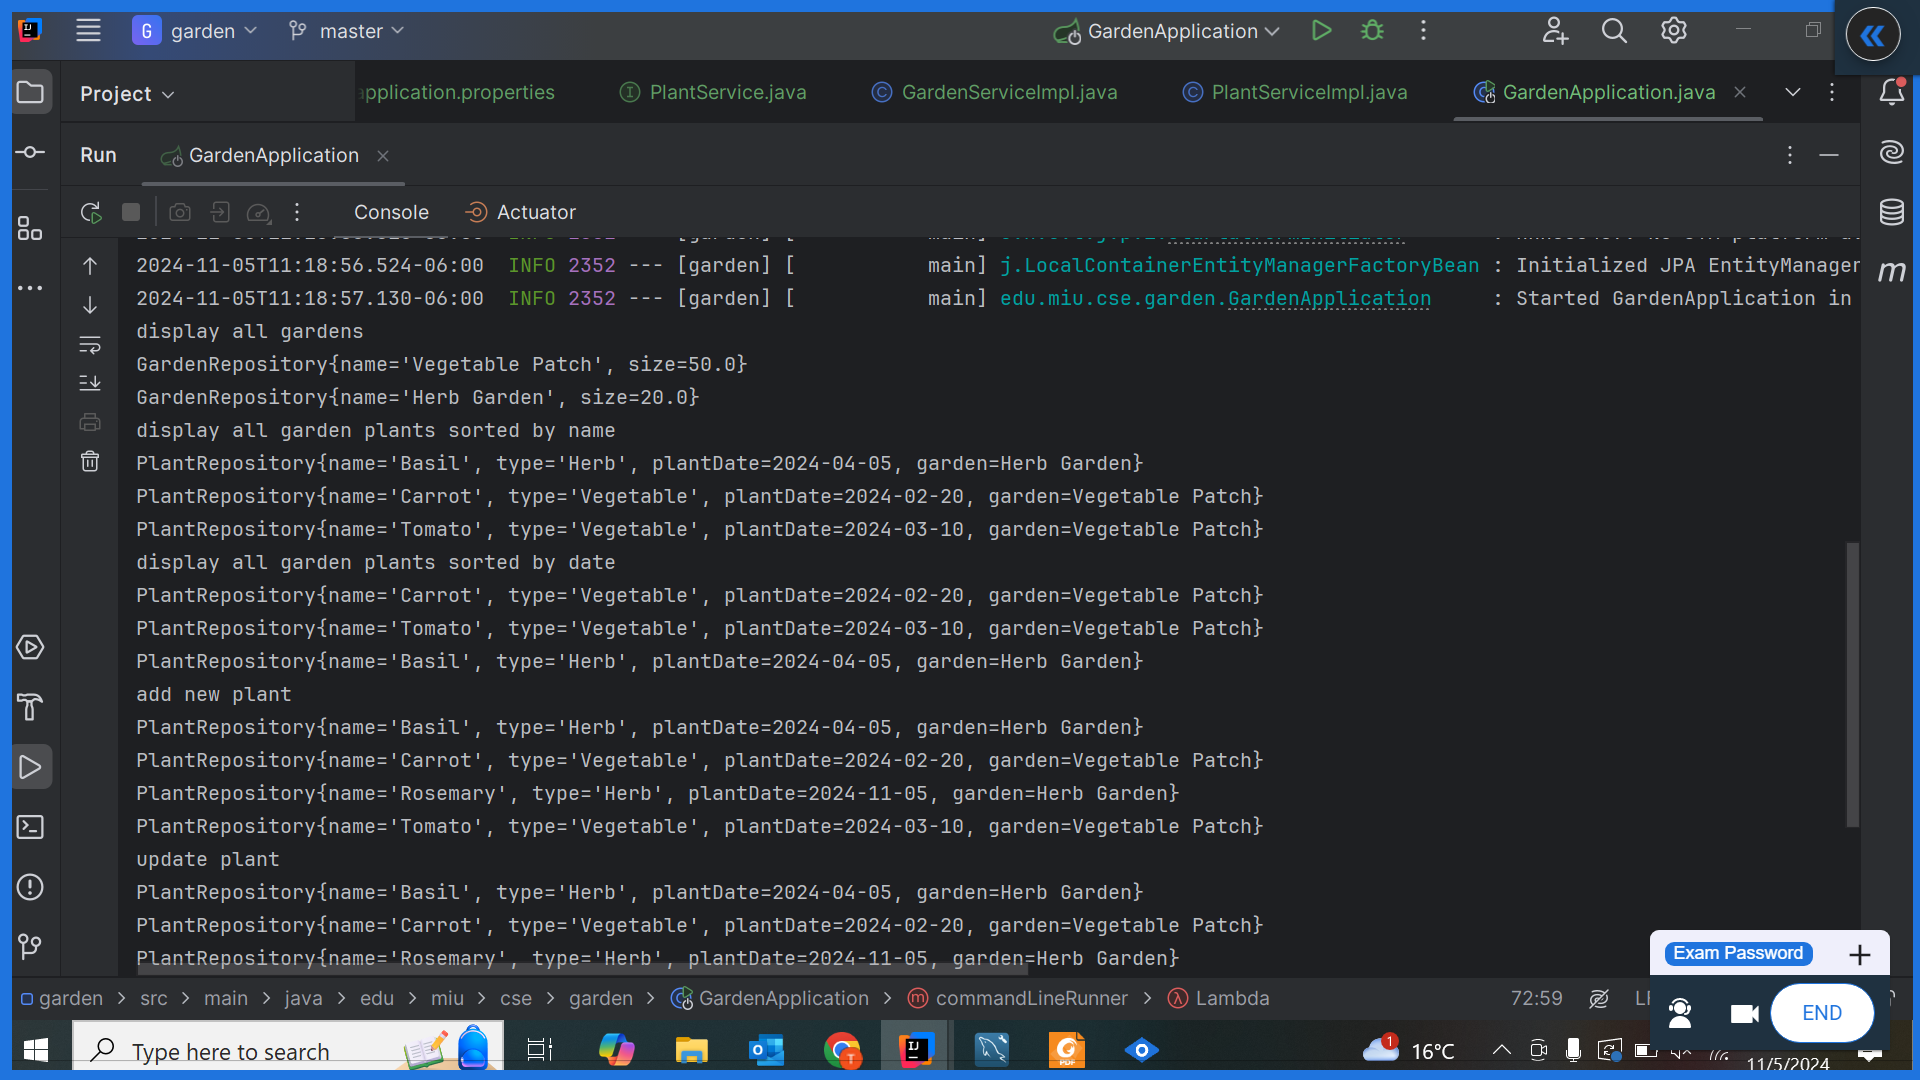
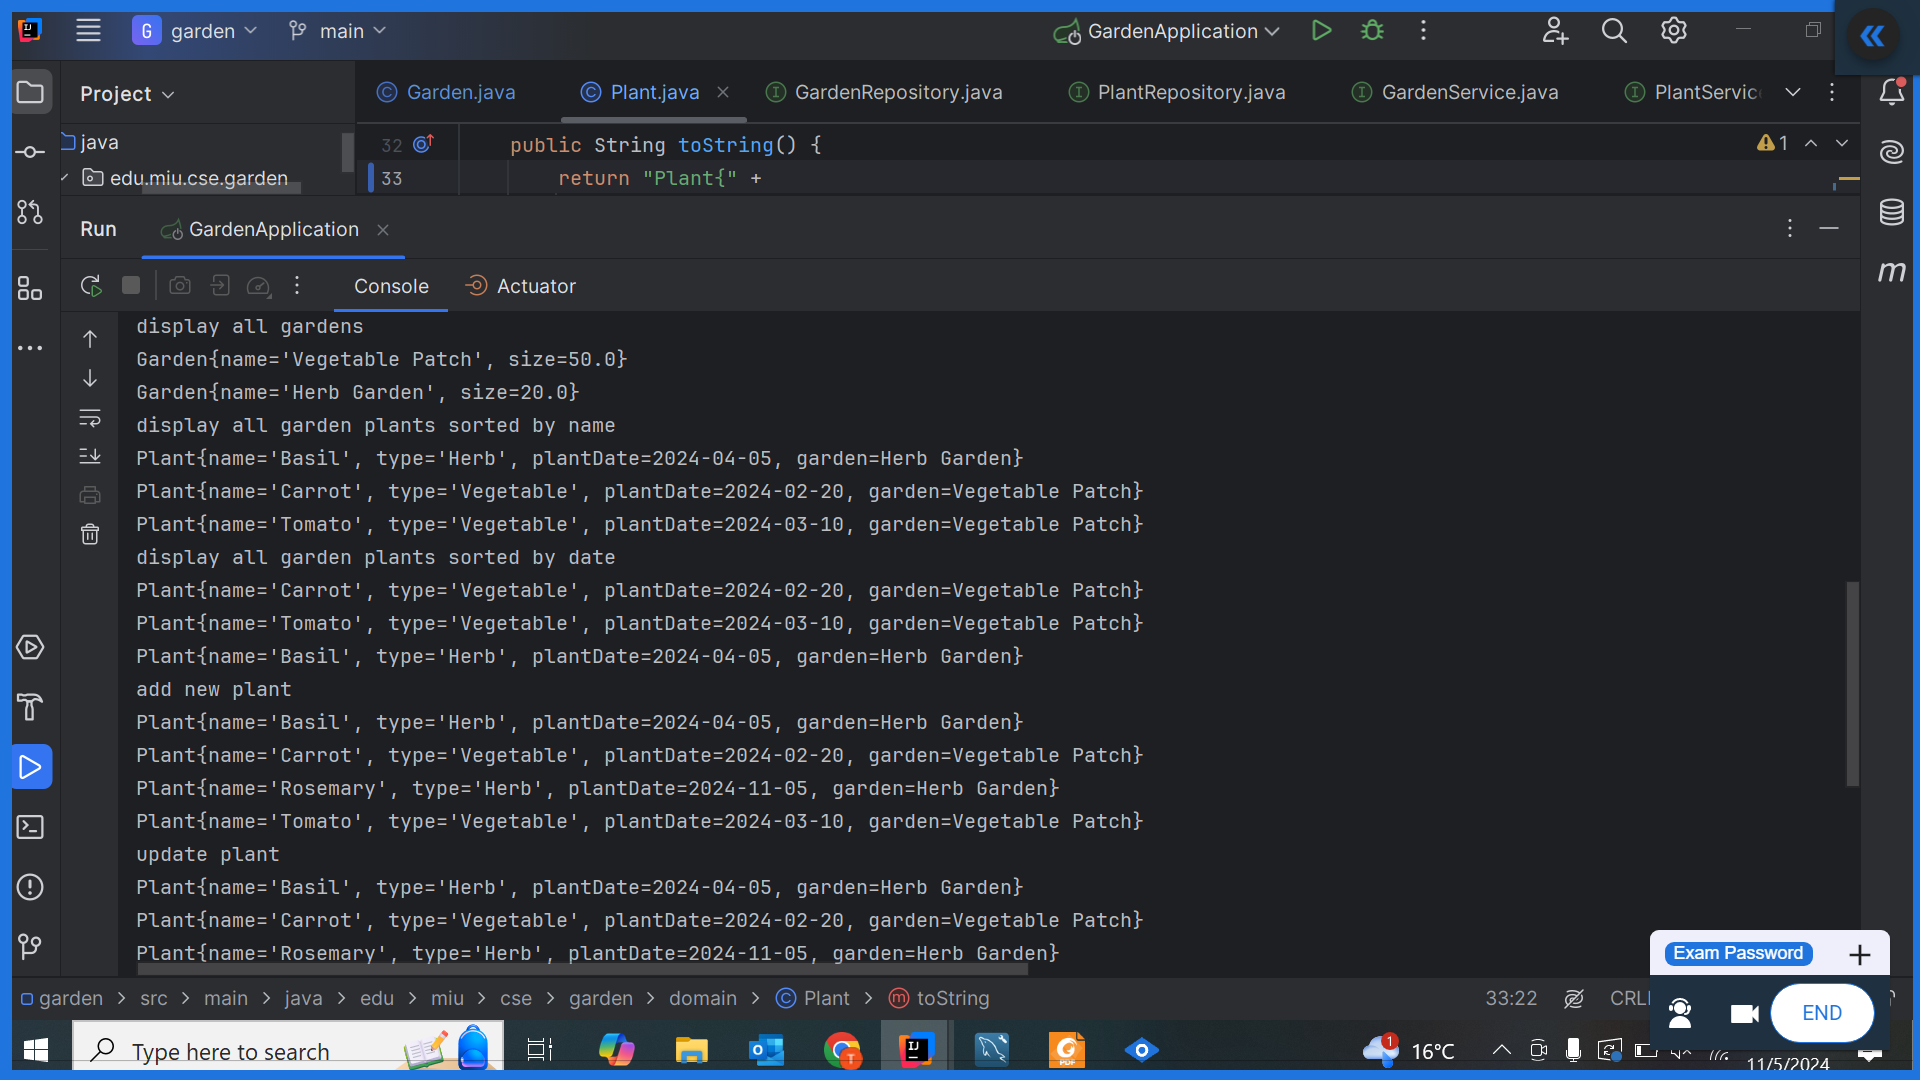
update

diff --git a/src/main/java/edu/miu/cse/garden/GardenApplication.java b/src/main/java/edu/miu/cse/garden/GardenApplication.java
@@ -79,11 +79,14 @@ public class GardenApplication {
 
             gardenService.findAll().forEach(System.out::println);
 
-            System.out.println("delete garden");
-            Optional<Garden> gardenToBeDelete = gardenService.findByGardenName("Herb Garden");
-            System.out.println(gardenToBeDelete.get().getId());
+            System.out.println("delete one garden");
+            Optional<Garden> gardenToBeDelete = gardenService.findByGardenName("Herb Garden Update");
+
             gardenService.deleteGarden(gardenToBeDelete.get().getId());
             gardenService.findAll().forEach(System.out::println);
+
+            System.out.println("remaining plants garden");
+            plantService.getAllPlants().forEach(System.out::println);
 
 
 

diff --git a/src/main/java/edu/miu/cse/garden/domain/Garden.java b/src/main/java/edu/miu/cse/garden/domain/Garden.java
@@ -17,7 +17,7 @@ public class Garden {
     private Integer id;
     private String name;
     private Double size;
-    @OneToMany(mappedBy = "garden")
+    @OneToMany(mappedBy = "garden", cascade = CascadeType.REMOVE)
     private List<Plant> plants;
 
     public Garden(String name, Double size) {
@@ -27,7 +27,7 @@ public class Garden {
 
     @Override
     public String toString() {
-        return "GardenRepository{" +
+        return "Garden{" +
                 "name='" + name + '\'' +
                 ", size=" + size +
                 '}';

diff --git a/src/main/java/edu/miu/cse/garden/domain/Plant.java b/src/main/java/edu/miu/cse/garden/domain/Plant.java
@@ -30,7 +30,7 @@ public class Plant {
 
     @Override
     public String toString() {
-        return "PlantRepository{" +
+        return "Plant{" +
                 "name='" + name + '\'' +
                 ", type='" + type + '\'' +
                 ", plantDate=" + plantDate +
